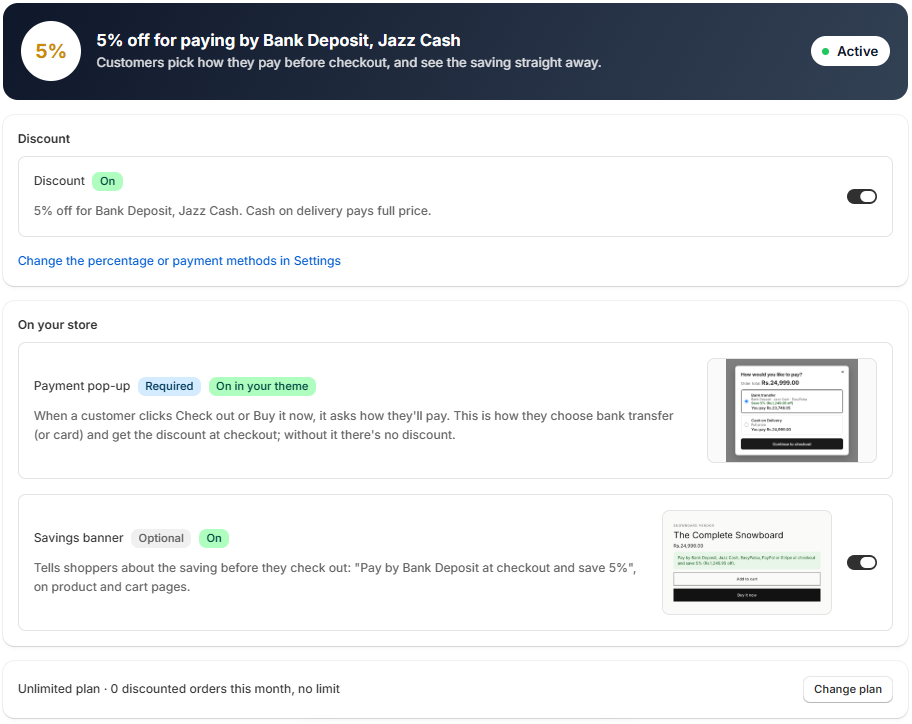
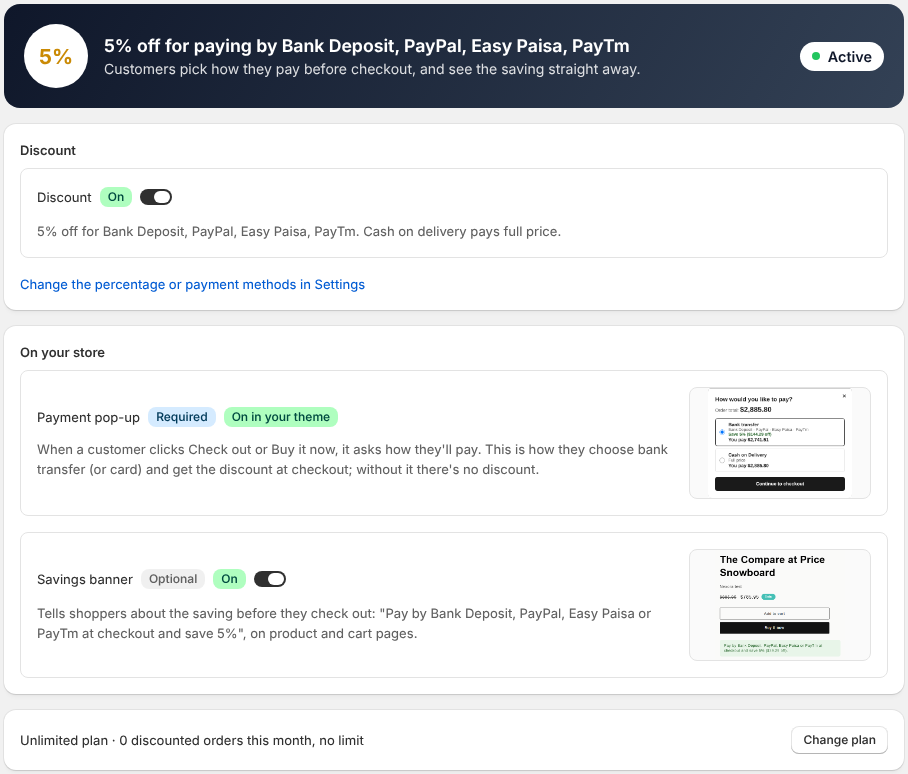
New Home and pop-up pictures with current method names
The Home picture shows the switches next to their On badges, and Home
thumbnails now share the guide's image version so browsers reload them.

Claude-Session: https://claude.ai/code/session_01T5N9wRvo6CZFC7JEBmskR2

diff --git a/app/routes/app.guide.tsx b/app/routes/app.guide.tsx
@@ -2,7 +2,7 @@ import type { HeadersFunction, LoaderFunctionArgs } from "react-router";
 import { useLoaderData } from "react-router";
 import { boundary } from "@shopify/shopify-app-react-router/server";
 import { loadBase } from "../admin.server";
-import { StepMark } from "../components/ui";
+import { GUIDE_IMAGES_VERSION, StepMark } from "../components/ui";
 
 export const loader = async ({ request }: LoaderFunctionArgs) => {
   const base = await loadBase(request);
@@ -12,9 +12,6 @@ export const loader = async ({ request }: LoaderFunctionArgs) => {
     percent: base.settings.percent,
   };
 };
-
-// Change this when a guide picture is replaced, so browsers load the new one.
-const IMAGES_VERSION = "2026-11-25c";
 
 type GuideStep = {
   title: string;
@@ -165,7 +162,7 @@ export default function Guide() {
         </>
       ),
       image: "popup",
-      alt: "The pop-up: bank transfer (Bank Deposit, EasyPaisa, PayPal) saves 5%, cash on delivery is full price",
+      alt: "The pop-up: bank transfer (Bank Deposit, PayPal, Easy Paisa, PayTm) saves 5%, cash on delivery is full price",
     },
     {
       title: "Pause or resume from Home",
@@ -249,7 +246,7 @@ export default function Guide() {
             </div>
             {step.image && (
               <img
-                src={`/guide/${step.image}.png?v=${IMAGES_VERSION}`}
+                src={`/guide/${step.image}.png?v=${GUIDE_IMAGES_VERSION}`}
                 alt={step.alt}
                 loading="lazy"
                 style={{

diff --git a/app/routes/app._index.tsx b/app/routes/app._index.tsx
@@ -25,6 +25,7 @@ import {
   useActivations,
   useToastResult,
   type ActionResult,
+  GUIDE_IMAGES_VERSION,
 } from "../components/ui";
 
 export const loader = async ({ request }: LoaderFunctionArgs) => {
@@ -474,7 +475,7 @@ function PopUpRow({ on, href }: { on: boolean | undefined; href: string }) {
         </div>
         <Thumbnail
           src="/guide/popup.png"
-          alt="The pop-up: bank transfer saves 5%, card and cash on delivery are full price"
+          alt="The pop-up: bank transfer saves 5%, cash on delivery is full price"
         />
       </div>
     </s-box>
@@ -492,7 +493,7 @@ function Thumbnail({ src, alt }: { src: string; alt: string }) {
       style={{ flexShrink: 0 }}
     >
       <img
-        src={src}
+        src={`${src}?v=${GUIDE_IMAGES_VERSION}`}
         alt={alt}
         style={{
           width: 180,

diff --git a/app/components/ui.tsx b/app/components/ui.tsx
@@ -296,6 +296,10 @@ export function discountedMethods(
   return names.join(" and ") || "no payment method yet";
 }
 
+// Change this when a picture in public/guide is replaced, so browsers load
+// the new one (the Guide and Home show them).
+export const GUIDE_IMAGES_VERSION = "2026-11-25d";
+
 // The app's own colours (navy and gold), used for its custom cards;
 // everything else is standard Polaris.
 export const BRAND = {
